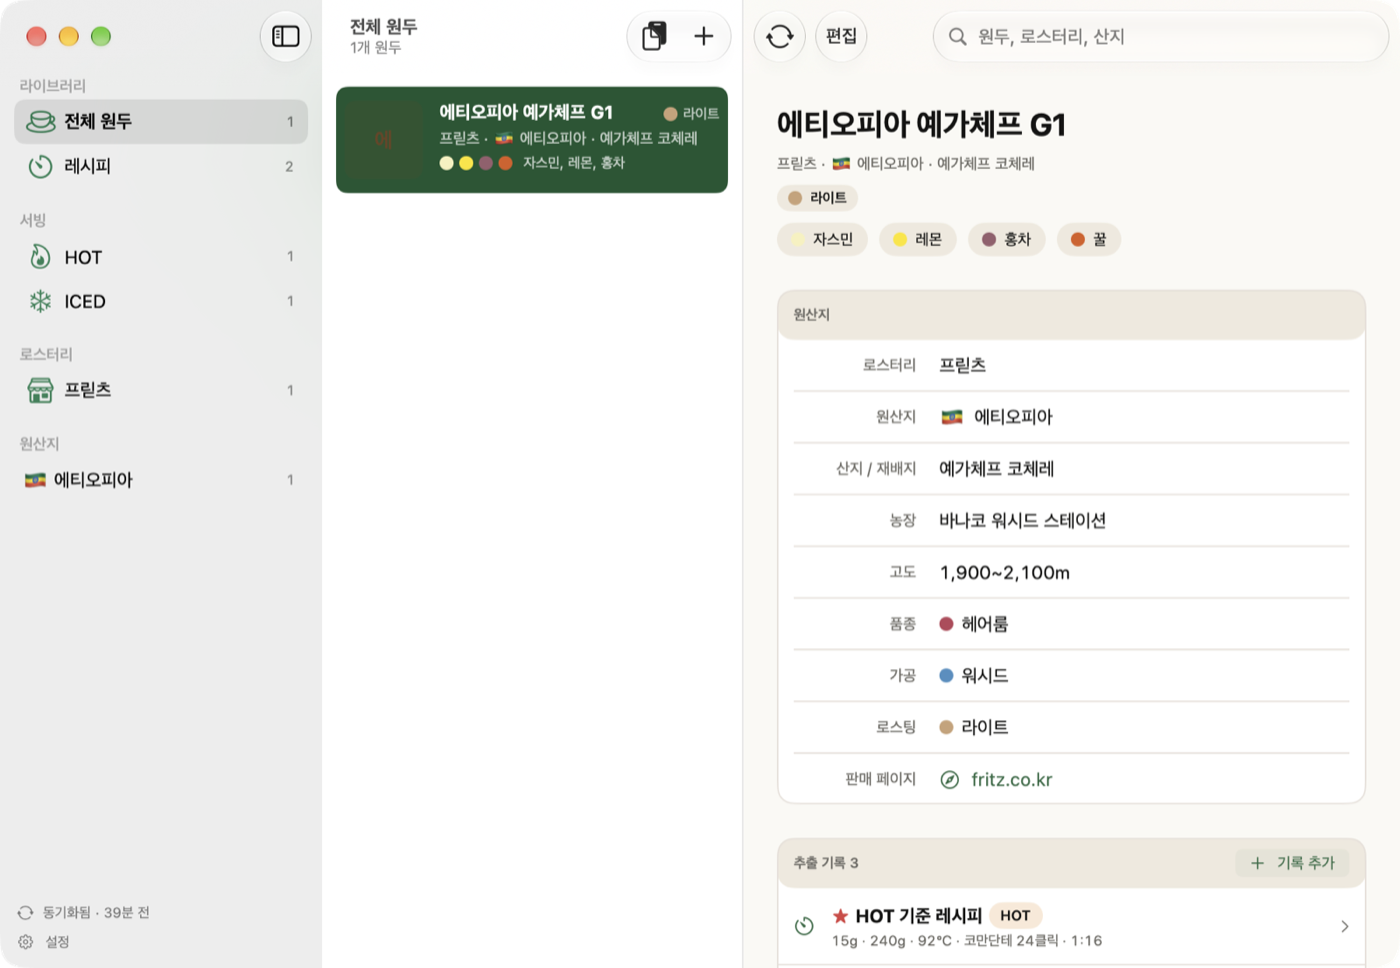
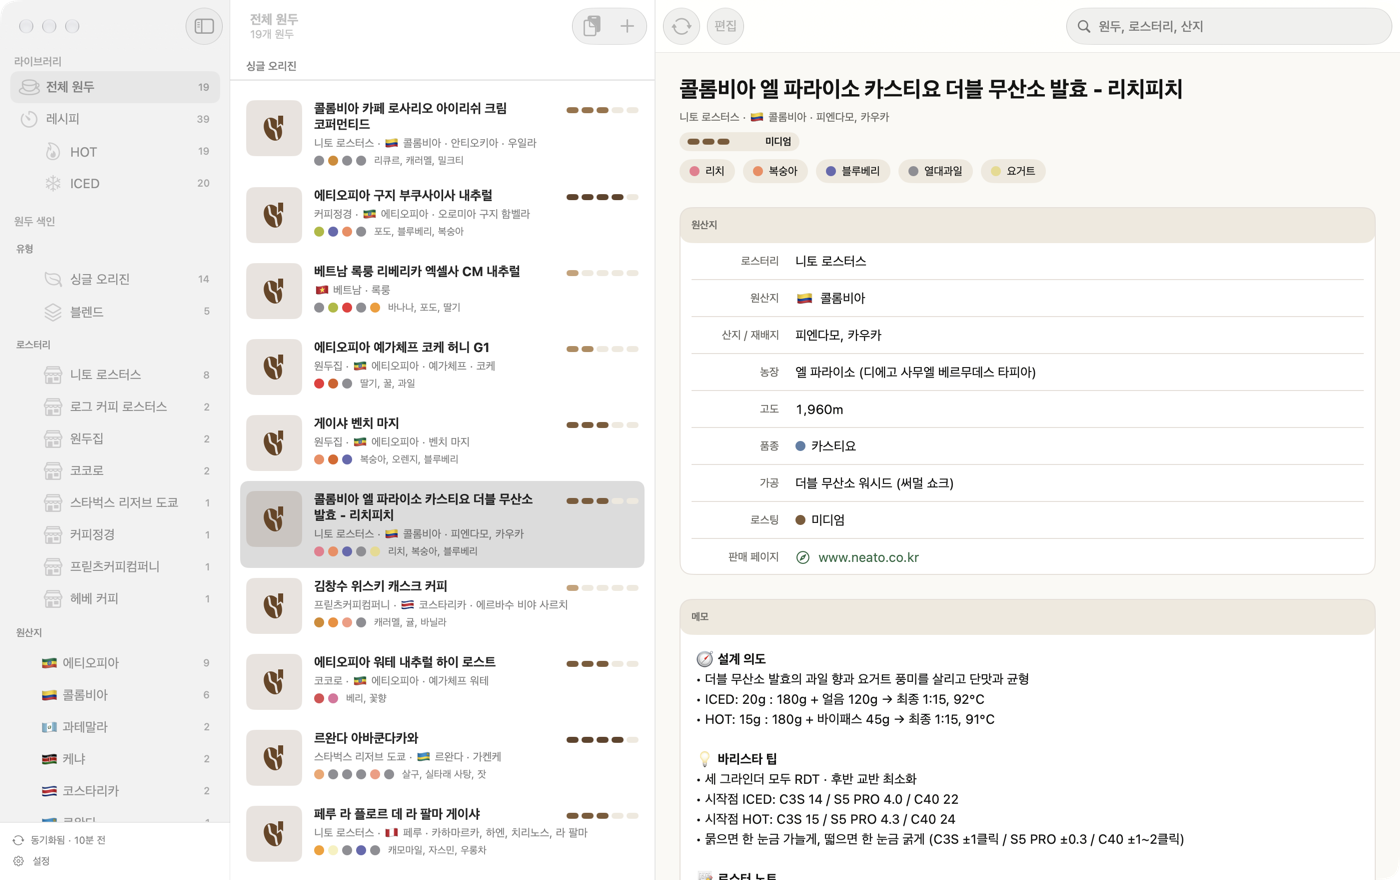
0.9.4 — README·스크린샷 갱신, 레시피 행 라벨·값 줄바꿈 수정, 스크린샷용 디버그 인자

diff --git a/BeanMuWiki/BeanMuWikiApp.swift b/BeanMuWiki/BeanMuWikiApp.swift
@@ -5,11 +5,23 @@ import SwiftData
 struct BeanMuWikiApp: App {
     private let container: ModelContainer
     private let engine: SyncEngine
+    #if DEBUG
+    @State private var tab = debugArg("-debugTab") ?? "beans"   // `-debugTab recipes`
+    #else
+    @State private var tab = "beans"
+    #endif
 
     init() {
         let inMemory = CommandLine.arguments.contains("-inMemory")
         container = try! ModelContainer(for: Bean.self, Tombstone.self, configurations: ModelConfiguration(isStoredInMemoryOnly: inMemory))
         engine = SyncEngine(context: container.mainContext, enabled: !inMemory)
+        #if DEBUG
+        // `-inMemory` + 환경 변수 BEANMUWIKI_BACKUP(백업 JSON 본문): 실제 저장소·동기화를 건드리지 않고 화면을 채운다 (스크린샷용).
+        // 파일 경로 대신 본문을 받는 이유: Mac 앱은 샌드박스라 임의 경로를 못 읽는다
+        if inMemory, let json = ProcessInfo.processInfo.environment["BEANMUWIKI_BACKUP"] {
+            _ = try? Snapshot.decode(Data(json.utf8)).merge(into: container.mainContext)
+        }
+        #endif
         engine.start()
     }
 
@@ -28,9 +40,9 @@ struct BeanMuWikiApp: App {
             #if os(macOS)
             MacRootView().rootStyle()
             #else
-            TabView {
-                Tab("원두", systemImage: "cup.and.saucer") { BeanListView() }
-                Tab("레시피", systemImage: "timer") { RecipesView() }
+            TabView(selection: $tab) {
+                Tab("원두", systemImage: "cup.and.saucer", value: "beans") { BeanListView() }
+                Tab("레시피", systemImage: "timer", value: "recipes") { RecipesView() }
             }
             .rootStyle()
             #endif

diff --git a/BeanMuWiki/RecipesView.swift b/BeanMuWiki/RecipesView.swift
@@ -41,6 +41,9 @@ struct RecipesView: View {
                     .frame(maxWidth: .infinity, maxHeight: .infinity).background(Color.canvas)   // 빈 상세도 크림 캔버스
             }
         }
+        #if DEBUG
+        .task { if CommandLine.arguments.contains("-debugOpen") { selection = debugBean(in: beans)?.favoriteBrew(iced: true) } }
+        #endif
     }
 }
 
@@ -104,10 +107,14 @@ private struct RecipeCard: View {
                 ServingChip(brew: brew)
                 if !brew.variant.isEmpty { Pill(text: brew.variant) }
             }
-            // 라벨은 흐리게, 값은 굵게 — 점으로 이어 붙인 숫자 줄보다 무엇이 몇인지 바로 읽힌다
-            brew.conditionItems.enumerated().reduce(Text("")) { line, e in
-                line + Text(e.offset == 0 ? "" : "   ") + Text(e.element.label + " ").foregroundStyle(rowMeta)
-                    + Text(e.element.value).fontWeight(.semibold).foregroundStyle(rowTitle)
+            // 라벨은 흐리게, 값은 굵게. 라벨·값 쌍 단위로 줄바꿈 (좁은 iPhone에서 "비율 / 1:9"가 갈라지지 않게)
+            FlowLayout(spacing: 10) {
+                ForEach(brew.conditionItems, id: \.label) { item in
+                    HStack(spacing: 3) {
+                        Text(item.label).foregroundStyle(rowMeta)
+                        Text(item.value).fontWeight(.semibold).foregroundStyle(rowTitle)
+                    }
+                }
             }
             .font(.subheadline).fontDesign(.rounded).monospacedDigit()
             if !brew.grindParts.isEmpty {

diff --git a/BeanMuWiki/MacRootView.swift b/BeanMuWiki/MacRootView.swift
@@ -205,6 +205,8 @@ struct MacRootView: View {
     private func debugHooks() async {
         let args = CommandLine.arguments
         try? await Task.sleep(for: .milliseconds(600))
+        if let mode = debugArg("-debugAppearance") { NSApp.appearance = NSAppearance(named: mode == "dark" ? .darkAqua : .aqua) }
+        if args.contains("-debugWindow") { NSApp.activate() }   // 스크린샷이 비활성 창(회색 툴바)으로 찍히지 않게
         if let i = args.firstIndex(of: "-debugWindow"), i + 1 < args.count {
             let parts = args[i + 1].split(separator: "x").compactMap { Double($0) }
             if parts.count == 2, let window = NSApp.windows.first(where: { $0.isVisible }) {
@@ -213,7 +215,9 @@ struct MacRootView: View {
         }
         if let i = args.firstIndex(of: "-debugSidebar"), i + 1 < args.count, args[i + 1] == "recipes" {
             item = .recipes(nil)
-            brew = beans.first?.favoriteBrew(iced: false)
+            brew = (debugBean(in: beans) ?? beans.first)?.favoriteBrew(iced: true)
+        } else if let target = debugBean(in: beans) {
+            bean = target
         }
         if args.contains("-debugSettings") { openSettings() }
     }

diff --git a/BeanMuWiki/BeanDetailView.swift b/BeanMuWiki/BeanDetailView.swift
@@ -305,10 +305,16 @@ private struct BrewRow: View {
 #endif
 
 #if DEBUG
-/// `-debugSheet bean|brew|flavor` 런치 인자: 클릭 없이 시트를 열어 레이아웃을 검증한다
-var debugSheet: String? {
+/// `-flag 값` 런치 인자의 값
+func debugArg(_ flag: String) -> String? {
     let args = CommandLine.arguments
-    guard let i = args.firstIndex(of: "-debugSheet"), i + 1 < args.count else { return nil }
+    guard let i = args.firstIndex(of: flag), i + 1 < args.count else { return nil }
     return args[i + 1]
+}
+/// `-debugSheet bean|brew|flavor` 런치 인자: 클릭 없이 시트를 열어 레이아웃을 검증한다
+var debugSheet: String? { debugArg("-debugSheet") }
+/// `-debugBean 이름일부`: 스크린샷용으로 그 원두(레시피 화면이면 그 원두의 ICED ★ 레시피)를 연다
+func debugBean(in beans: [Bean]) -> Bean? {
+    debugArg("-debugBean").flatMap { key in beans.first { $0.name.contains(key) } }
 }
 #endif

diff --git a/BeanMuWiki/BeanListView.swift b/BeanMuWiki/BeanListView.swift
@@ -21,6 +21,9 @@ struct BeanListView: View {
                 .refreshable { await engine?.syncNow() }                // 당겨서 지금 동기화
                 #endif
                 .searchable(text: $search, prompt: "원두, 로스터리, 산지")
+                #if DEBUG
+                .task { if CommandLine.arguments.contains("-debugOpen") { selection = debugBean(in: beans) } }
+                #endif
                 .overlay {
                     if beans.isEmpty {
                         ContentUnavailableView("원두를 추가해보세요", systemImage: "cup.and.saucer",

diff --git a/README.md b/README.md
@@ -6,12 +6,12 @@
 
 홈카페에서 원두를 바꿀 때마다 같은 질문을 반복하게 됩니다. 이 원두는 어디 농장 것이었지, 지난번에 몇 도로 몇 그램 내렸더니 괜찮았지, 컵노트에 뭐라고 적혀 있었지. BeanMuWiki는 그 답을 원두별 문서 한 장에 모읍니다.
 
-- **원두 문서** — 로스터리, 원산지, 산지/재배지, 농장, 고도, 품종, 가공 방식, 로스팅 포인트, 판매 페이지, 패키지 사진, 메모. 원산지(43개국, 국기), 품종(61종, 계통별), 가공 방식(37종), 로스팅 포인트(7단계, 원두색)는 카테고리 피커에서 고르고, 목록에 없으면 직접 입력해 추가합니다.
+- **원두 문서** — 로스터리, 원산지, 산지/재배지, 농장, 고도, 품종, 가공 방식, 로스팅 포인트, 판매 페이지, 패키지 사진, 메모. 사진이 없는 원두는 목록에서 앱 로고 마크 타일로 보입니다. 메모·노트의 `**굵게**`는 굵은 글씨로 렌더링됩니다. 원산지(43개국, 국기), 품종(61종, 계통별), 가공 방식(37종), 로스팅 포인트(7단계, 원두색)는 카테고리 피커에서 고르고, 목록에 없으면 직접 입력해 추가합니다.
 - **컵노트** — SCA 커피 플레이버 휠 97개에 한국 로스터리 통용 노트(유자, 청포도, 리치, 라벤더, 밀크초콜릿 …) 32개를 더한 129개 향미를 9개 카테고리(과일, 신맛/발효, 녹색/채소, 기타, 구운, 향신료, 견과/코코아, 단맛, 꽃)와 색으로 고릅니다. 목록에서는 색 점으로 보여 원두를 한눈에 구분할 수 있습니다.
 - **추출 기록** — 추출 중 바뀌지 않는 조건(원두 g, 물 온도, 분쇄도)과 **푸어 단계 슬롯**(몇 초에 누적 몇 g을 어떤 방식으로)을 나눠 적습니다. 단계를 추가하면 물 총량과 비율이 따라 계산됩니다. 평점과 노트를 남기고, 잘 나온 기록을 ★ 기준 레시피로 두면 다음 기록이 그 값으로 미리 채워집니다.
 - **HOT / ICED × 드리퍼** — 기록마다 서빙과 드리퍼(V60, 칼리타 101, 칼리타 웨이브, 오리가미 …)를 고르고, ICED는 서버 얼음 g을 따로 적어 브루 비율과 최종 비율(물+얼음)이 함께 계산됩니다. ★ 기준 레시피는 **서빙 × 드리퍼** 조합마다 하나씩 둘 수 있어, 같은 원두의 V60 레시피와 칼리타 101 레시피가 나란히 남습니다. 새 기록 폼에서 드리퍼를 바꾸면 그 드리퍼의 기준 레시피로 미리 채워집니다. 기록에 **변형 이름**(예: "연하게", "여자친구용")을 붙이면 같은 서빙·드리퍼 아래에서도 별도 ★로 남고, 레시피 카드와 추출 카드에 배지로 보입니다. 양을 바꾸는 건 변형이 아니라 추출 카드의 **컵 피커**(355 / 473 / 591 ml)가 비율 그대로 늘려 주고, 농도는 **농도 버튼**(기본 / 연하게 / 진하게)이 원두량만 바꿔(연하게 ×0.75, 물·얼음·분쇄·온도 유지) 즉시 만들어 줍니다. 그 상태로 **기록하기**를 누르면 변형 이름이 붙은 별도 기록으로 남습니다.
 - **싱글 오리진 / 블렌드** — 원두 유형을 구분합니다. 블렌드는 구성 산지를 "콜롬비아 · 브라질"처럼 이어 적고 목록·문서에 블렌드 배지가 붙으며, Mac 사이드바에서 유형별로 걸러 볼 수 있습니다.
-- **레시피 탭과 추출 카드** — 원두마다 서빙별 ★ 기준 레시피가 카드로 모이고 전체 / HOT / ICED로 걸러 볼 수 있습니다. 카드를 열면 조건 한 줄과 푸어 단계가 한 화면에 큰 글씨로 나오고, **타이머 시작**을 누르면 경과 시간에 맞춰 지금 부어야 할 누적 g과 기법이 안내되고, 다음 푸어까지 남은 초가 큰 숫자와 진행 바로 보입니다(단계 전환 햅틱, 추출 중 화면 켜짐 유지). **추출 끝**을 누르면 실제 시간이 들어간 새 기록이 만들어져 별점만 매기면 됩니다.
+- **레시피 탭과 추출 카드** — 원두마다 서빙별 ★ 기준 레시피가 카드로 모이고 전체 / HOT / ICED로 걸러 볼 수 있습니다. 목록의 각 카드는 `원두 20g  물 180g  얼음 120g  온도 94℃ …`처럼 라벨 붙은 숫자와 그라인더별 칩(타임모어 C3S · S5 PRO · 코만단테 C40)을 보여 줍니다. 카드를 열면 원두·물·얼음·온도·비율·최종 비율이 라벨 위·값 아래 칸으로, 분쇄도가 그라인더별 칩으로, 푸어 단계가 큰 글씨로 나오고, **타이머 시작**을 누르면 경과 시간에 맞춰 지금 부어야 할 누적 g과 기법이 안내되고, 다음 푸어까지 남은 초가 큰 숫자와 진행 바로 보입니다(단계 전환 햅틱, 추출 중 화면 켜짐 유지). **추출 끝**을 누르면 실제 시간이 들어간 새 기록이 만들어져 별점만 매기면 됩니다.
 - **ChatGPT 연동 (앱 안에 AI 없음)** — 함께 들어 있는 프롬프트(`ChatGPT_Prompt.md`)에 원두를 알려주면 ChatGPT가 산지·품종·가공·컵노트를 조사하고 ICED·HOT 레시피를 둘 다 설계한 뒤 마지막에 JSON을 출력합니다. 그 JSON을 복사해 앱의 **가져오기** 버튼을 누르면 원두 문서와 기준 레시피가 한 번에 만들어집니다. 로스터리 표기(Heirloom, Washed, 플로럴, 레몬캔디 …)는 가져올 때 앱 목록의 표준 이름으로 자동 정규화됩니다. 맛 피드백을 주고 받은 보정 레시피도 같은 방법으로 붙여넣으면 기존 원두에 기록만 추가됩니다.
 
 - **Mac 앱** — 같은 소스가 macOS 26에서 Mac다운 3열 창으로 열립니다. 왼쪽 사이드바는 색인(전체 원두 · 레시피 · HOT/ICED · 로스터리별 · 원산지별, 개수 배지), 가운데는 목록과 검색, 오른쪽은 원두 문서 또는 추출 카드. 추출 기록은 정렬 가능한 표로, 설정은 ⌘, 창으로 열립니다. ⌘N 새 원두, ⇧⌘V 클립보드 가져오기, ⌫·우클릭 삭제(확인 후), 툴바와 사이드바 아래에 동기화 상태 표시.
@@ -27,11 +27,11 @@
 |---|---|---|---|
 | ![목록](docs/screenshots/01-list.png) | ![상세](docs/screenshots/02-detail.png) | ![기록](docs/screenshots/03-brew-steps.png) | ![피커](docs/screenshots/04-flavor-picker.png) |
 
-| 레시피 탭 (HOT / ICED) | 추출 카드 (타이머 실행 중) | 기록 폼 (ICED) | 원산지 피커 (국기) |
+| 레시피 탭 (HOT / ICED) | 추출 카드 (ICED) | 기록 폼 (ICED) | 원산지 피커 (국기) |
 |---|---|---|---|
 | ![레시피](docs/screenshots/07-recipes.png) | ![추출 카드](docs/screenshots/08-brew-card.png) | ![ICED 폼](docs/screenshots/09-brew-form-iced.png) | ![국가](docs/screenshots/06-country-picker.png) |
 
-| Mac — 원두 문서 (3열) | Mac — 레시피 / 추출 카드 |
+| Mac — 원두 문서 (3열) | Mac — 레시피 목록 / 추출 카드 |
 |---|---|
 | ![Mac 원두](docs/screenshots/10-mac-beans.png) | ![Mac 레시피](docs/screenshots/11-mac-recipes.png) |
 
@@ -55,6 +55,7 @@ open BeanMuWiki.xcodeproj      # 실행 대상에서 iPhone 시뮬레이터·연
 
 - `-seed` 런치 인자: 샘플 원두 1개와 기록 2개(푸어 단계 포함)를 넣고 시작 (DEBUG 전용)
 - `-inMemory` 런치 인자: 저장하지 않는 빈 상태로 시작 (UI 테스트가 사용)
+- 스크린샷 (DEBUG 전용): `-inMemory`에 환경 변수 `BEANMUWIKI_BACKUP`로 백업 JSON 본문을 넘기면 실제 저장소·동기화를 건드리지 않고 그 데이터로 화면을 채웁니다. `-debugBean 이름일부`(그 원두 / 그 원두의 ICED ★ 레시피 선택), Mac `-debugWindow 1400x880` · `-debugSidebar recipes` · `-debugAppearance light|dark`, iPhone `-debugTab recipes` · `-debugOpen`. README 스크린샷(01·02·07·08·10·11·13)은 이 방식으로 실제 데이터에서 찍었습니다.
 
 실기기 설치는 타깃 → Signing & Capabilities에서 본인 Team을 고른 뒤 ⌘R. 무료 Apple ID는 7일마다 재설치가 필요합니다.
 
@@ -70,7 +71,7 @@ open BeanMuWiki.xcodeproj      # 실행 대상에서 iPhone 시뮬레이터·연
 
 ```
 xcodebuild test -project BeanMuWiki.xcodeproj -scheme BeanMuWiki \
-  -destination 'platform=iOS Simulator,name=iPhone 17 Pro'
+  -destination 'platform=iOS Simulator,name=iPhone 18 Pro'
 ```
 
 - `BeanMuWikiTests/` — Swift Testing 단위 테스트 (비율·별점·기준 레시피·URL 보정·사진 축소·푸어 단계 파싱·JSON 가져오기·플레이버 휠·원산지/품종/가공/로스팅 데이터·스냅샷 병합/삭제 전파·PKCE·Keychain)
